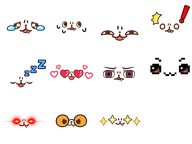
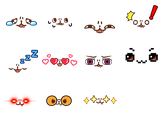
춘과게임·춘컬타일 UI 통일 및 모바일 가로모드 개선 (#185)
두 게임의 보드와 UI 크기를 통일하고 춘컬타일을 춘봉 표정+원색 타일로 변경합니다. hover 정답 노출을 없애고 모바일 landscape 진입과 orientation 동기화를 보강합니다.

diff --git a/mobile-minigames.js b/mobile-minigames.js
@@ -6,6 +6,7 @@
 
   const mobileQuery=window.matchMedia('(max-width: 760px)');
   const coarseQuery=window.matchMedia('(pointer: coarse)');
+  const landscapeQuery=window.matchMedia('(orientation: landscape)');
   const handheldAtLoad=mobileQuery.matches||coarseQuery.matches;
   const isHandheld=()=>handheldAtLoad||mobileQuery.matches||coarseQuery.matches||
     (navigator.maxTouchPoints>0&&Math.min(window.innerWidth,window.innerHeight)<=760);
@@ -31,8 +32,20 @@
   let gateResume=null;
   let gateTitle=null;
   let gateCopy=null;
+  let fullscreenOwned=false;
 
-  const isPortrait=()=>window.innerHeight>=window.innerWidth;
+  const viewportSize=()=>{
+    const visual=window.visualViewport;
+    return {width:visual?.width||window.innerWidth,height:visual?.height||window.innerHeight};
+  };
+  const isLandscape=()=>{
+    const {width,height}=viewportSize();
+    if(Math.abs(width-height)>2)return width>height;
+    if(landscapeQuery.matches)return true;
+    const orientationType=String(screen.orientation?.type||'');
+    return orientationType.startsWith('landscape');
+  };
+  const isPortrait=()=>!isLandscape();
   const landscapeApi=()=>{
     if(game==='chungwagame')return globalThis.ChungwagameApp||null;
     if(game==='chuncortile')return globalThis.ChuncortileApp||null;
@@ -67,7 +80,12 @@
     gateResume=landscapeGate.querySelector('[data-mobile-landscape-resume]');
     gateTitle=landscapeGate.querySelector('#mobile-landscape-title');
     gateCopy=landscapeGate.querySelector('[data-mobile-landscape-copy]');
-    gateResume?.addEventListener('click',()=>{
+    gateResume?.addEventListener('click',async()=>{
+      if(gateResume.dataset.action==='rotate'){
+        await requestLandscapeLock();
+        setTimeout(syncLandscapeMode,80);
+        return;
+      }
       if(isPortrait())return;
       const api=landscapeApi();
       if(!orientationPaused||!api?.resumeGame)return;
@@ -88,15 +106,21 @@
     if(mode==='resume'){
       gateTitle.textContent='게임이 일시정지되었습니다';
       gateCopy.textContent='가로 화면으로 돌아왔습니다. 준비되면 계속하기를 눌러주세요.';
+      gateResume.dataset.action='resume';
+      gateResume.textContent='계속하기';
       gateResume.hidden=false;
     }else if(mode==='paused-rotate'){
       gateTitle.textContent='세로 화면으로 전환되어 일시정지했습니다';
-      gateCopy.textContent='게임 기록은 그대로 유지됩니다. 휴대폰을 다시 가로로 돌려주세요.';
-      gateResume.hidden=true;
+      gateCopy.textContent='게임 기록은 그대로 유지됩니다. 휴대폰을 가로로 돌리거나 아래 버튼으로 다시 시도해 주세요.';
+      gateResume.dataset.action='rotate';
+      gateResume.textContent='가로모드 다시 시도';
+      gateResume.hidden=false;
     }else{
       gateTitle.textContent='휴대폰을 가로로 돌려주세요';
-      gateCopy.textContent=`${gameName}은 모바일 가로 화면에 맞춰 게임판과 조작 버튼을 크게 표시합니다.`;
-      gateResume.hidden=true;
+      gateCopy.textContent=`${gameName}은 모바일 가로 화면에 맞춰 게임판과 조작 버튼을 크게 표시합니다. 자동 회전이 되지 않으면 아래 버튼을 눌러주세요.`;
+      gateResume.dataset.action='rotate';
+      gateResume.textContent='가로모드 실행';
+      gateResume.hidden=false;
     }
     landscapeGate.hidden=false;
     body.classList.add('mobile-landscape-gate-open');
@@ -107,17 +131,26 @@
     body.classList.remove('mobile-landscape-gate-open');
   }
 
-  function requestLandscapeLock(){
+  async function requestLandscapeLock(){
+    try{
+      if(!document.fullscreenElement&&typeof document.documentElement.requestFullscreen==='function'){
+        const request=document.documentElement.requestFullscreen({navigationUI:'hide'});
+        fullscreenOwned=true;
+        await Promise.resolve(request).catch(()=>{fullscreenOwned=false;});
+      }
+    }catch(_){fullscreenOwned=false;}
     try{
       const lock=screen.orientation?.lock;
-      if(typeof lock==='function'){
-        Promise.resolve(lock.call(screen.orientation,'landscape')).catch(()=>{});
-      }
+      if(typeof lock==='function')await Promise.resolve(lock.call(screen.orientation,'landscape')).catch(()=>{});
     }catch(_){}
   }
 
   function releaseLandscapeLock(){
     try{screen.orientation?.unlock?.();}catch(_){}
+    if(fullscreenOwned&&document.fullscreenElement&&typeof document.exitFullscreen==='function'){
+      Promise.resolve(document.exitFullscreen()).catch(()=>{});
+    }
+    fullscreenOwned=false;
   }
 
   function beginLandscapeSession(){
@@ -272,7 +305,11 @@
   const resync=()=>{sync();centerChuncortile(false);};
   window.addEventListener('resize',resync,{passive:true});
   window.visualViewport?.addEventListener('resize',resync,{passive:true});
-  window.addEventListener('orientationchange',()=>setTimeout(()=>{sync();centerChuncortile(true)},120),{passive:true});
+  const orientationResync=()=>setTimeout(()=>{sync();centerChuncortile(true)},80);
+  window.addEventListener('orientationchange',orientationResync,{passive:true});
+  landscapeQuery.addEventListener?.('change',orientationResync);
+  screen.orientation?.addEventListener?.('change',orientationResync);
+  document.addEventListener('fullscreenchange',orientationResync,{passive:true});
   window.addEventListener('pagehide',()=>{if(landscapeSession)releaseLandscapeLock();},{once:true});
   sync();
 })();

diff --git a/chuncortile.js b/chuncortile.js
@@ -7,8 +7,7 @@
   const COMBO_WINDOW=2800;
   const CLEAR_PARTICLES_PER_TILE=4;
   const CLEAR_RESOLVE_MS=300;
-  const TILE_MARKS=['●','▲','◆','★','＋','✦','■','⬟','≡','♥','✿'];
-  const COLORS=['#16c931','#2377ee','#ef254f','#ffc51f','#ff6b24','#982fe8','#16c4c8','#8e531d','#969ca1','#ef4a9d','#49b856'];
+  const COLORS=['#E53935','#1E88E5','#FDD835','#43A047','#FB8C00','#8E24AA','#00ACC1','#EC407A','#90A4AE','#3949AB','#7CB342'];
 
   const e={
     game:document.getElementById('chuncortile'),board:document.getElementById('ct-board'),wrap:document.getElementById('ct-board-wrap'),
@@ -52,9 +51,9 @@
       cell.className='ct-cell '+(type===null?'is-empty':'is-tile');
       if(index===hintIndex)cell.classList.add('is-hint');
       cell.replaceChildren();
-      cell.setAttribute('aria-label',type===null?'빈 칸':`춘봉 타일 ${type+1}, ${TILE_MARKS[type]||type+1} 표식`);
+      cell.setAttribute('aria-label',type===null?'빈 칸':`춘봉 표정 타일 ${type+1}`);
       if(type!==null){
-        const tile=document.createElement('span');tile.className='ct-tile type-'+type;tile.style.setProperty('--tile-color',COLORS[type]);tile.dataset.mark=TILE_MARKS[type]||String(type+1);
+        const tile=document.createElement('span');tile.className='ct-tile type-'+type;tile.style.setProperty('--tile-color',COLORS[type]);
         const face=document.createElement('i');face.className=faceClass(type);tile.append(face);cell.append(tile);
         if(clearSet?.has(index))cell.classList.add('is-clearing');
       }
@@ -335,9 +334,8 @@
   function snapshot(){return{status:e.game.dataset.gameStatus,score,best,misses,combo,maxCombo,remainingMs,remaining:Core.remainingTiles(board),seed,board:[...board]};}
 
   buildCells();renderBoard();updateHud();void loadRanking();
-  e.board.addEventListener('pointerover',event=>{const cell=event.target.closest?.('.ct-cell');if(cell&&e.board.contains(cell))previewCell(Number(cell.dataset.index));});
-  e.board.addEventListener('pointerleave',()=>{clearPreview();if(running&&!paused)setMessage('빈 칸에 마우스를 올리면 제거될 타일을 미리 볼 수 있어요.');});
-  e.board.addEventListener('focusin',event=>{const cell=event.target.closest?.('.ct-cell');if(cell)previewCell(Number(cell.dataset.index));});
+  // Normal hover/focus no longer reveals valid moves. Preview is reserved for the Hint button.
+  e.board.addEventListener('pointerleave',()=>{clearPreview();if(running&&!paused)setMessage('빈 칸을 눌러 같은 춘봉 표정을 찾아보세요.');});
   e.board.addEventListener('focusout',event=>{if(!e.board.contains(event.relatedTarget)){clearPreview();}});
   e.start.addEventListener('click',newBoard);e.again.addEventListener('click',newBoard);e.restart.addEventListener('click',newBoard);e.pauseRestart.addEventListener('click',newBoard);
   e.pause.addEventListener('click',()=>paused?resumeGame():pauseGame(true));e.resume.addEventListener('click',resumeGame);e.hint.addEventListener('click',showHint);e.sound.addEventListener('click',toggleSound);

diff --git a/game-layout.css b/game-layout.css
@@ -216,3 +216,89 @@
   .cg-utility,.ct-tool{min-height:50px!important}
   .cg-utility small,.ct-tool small{display:none}
 }
+
+
+/* Unified Chungwagame / Chuncortile desktop footprint.
+   One shared board ratio prevents Chuncortile from becoming taller and clipping below the viewport. */
+@media(min-width:900px){
+  .chungwagame-page,.chuncortile-page{
+    --game-shell-max:1260px;
+    --game-left:150px;
+    --game-board:min(1040px,calc(170dvh - 272px),calc(100vw - 330px));
+    --game-right:100px;
+    --game-gap:10px;
+    min-height:calc(100dvh - 72px)!important;
+    overflow:visible!important
+  }
+  .chungwagame-shell,.ct-shell{
+    width:min(var(--game-shell-max),96vw)!important;
+    max-width:none!important;
+    padding:6px 0 18px!important
+  }
+  .chungwagame-navline,.ct-navline{
+    min-height:22px!important;
+    height:22px!important;
+    margin:0 0 3px!important;
+    padding:0 2px!important
+  }
+  .chungwagame-topbar,.ct-topbar{
+    min-height:52px!important;
+    margin-bottom:4px!important;
+    gap:12px!important
+  }
+  .chungwagame-layout,.ct-layout{
+    grid-template-columns:var(--game-left) minmax(0,var(--game-board)) var(--game-right)!important;
+    gap:var(--game-gap)!important;
+    justify-content:center!important;
+    align-items:start!important
+  }
+  .cg-board-card,.ct-board-card{
+    min-width:0!important;
+    padding:6px!important;
+    border-radius:18px!important
+  }
+  .cg-board-head,.ct-board-head{
+    min-height:30px!important;
+    padding:0 5px 5px!important
+  }
+  .cg-board-wrap,.ct-board-wrap{
+    width:100%!important;
+    max-width:none!important;
+    max-height:none!important;
+    aspect-ratio:17/10!important;
+    overflow:hidden!important
+  }
+  .ct-board{
+    width:100%!important;
+    height:100%!important;
+    aspect-ratio:auto!important
+  }
+  .cg-utility,.ct-tool{
+    min-height:60px!important;
+    border-radius:14px!important
+  }
+  .cg-side,.ct-side{gap:9px!important}
+  .cg-howto,.ct-panel{padding:10px!important}
+  .cg-howto h2,.ct-panel h2{font-size:14px!important;margin:5px 0 7px!important}
+  .cg-howto ol,.ct-panel ol{font-size:10px!important;line-height:1.42!important}
+  .ct-warning p{font-size:9px!important;line-height:1.45!important}
+  .cg-stat,.ct-stat{
+    min-width:78px!important;
+    padding:5px 8px!important;
+    border-radius:13px!important
+  }
+  .cg-stat strong,.ct-stat strong{font-size:17px!important}
+  .ct-stat strong b{font-size:18px!important}
+  .ct-tile{inset:5% 3%!important}
+  .ct-tile .ct-face{height:86%!important;width:auto!important;aspect-ratio:1/1!important}
+}
+@media(min-width:900px) and (max-height:700px){
+  .chungwagame-page,.chuncortile-page{
+    --game-left:140px;
+    --game-right:94px;
+    --game-gap:8px;
+    --game-board:min(900px,calc(170dvh - 250px),calc(100vw - 300px))
+  }
+  .cg-howto,.ct-howto{display:none!important}
+  .cg-utility,.ct-tool{min-height:50px!important}
+}

diff --git a/chuncortile.html b/chuncortile.html
@@ -58,7 +58,7 @@
             <span class="ct-kicker">HOW TO PLAY</span>
             <h2>게임 방법</h2>
             <ol>
-              <li><b>빈 칸</b>에 마우스를 올리면 제거될 타일을 미리 볼 수 있고, 클릭하면 지워요.</li>
+              <li><b>빈 칸</b>을 눌러 상·하·좌·우의 같은 춘봉 표정을 찾아 지워요.</li>
               <li>상·하·좌·우에서 처음 만나는 타일 중 같은 종류가 <b>2개 이상</b>이면 사라져요.</li>
               <li>타일 1개당 <b>1점</b>, 빠르게 연속 성공하면 <b>COMBO</b>!</li>
             </ol>
@@ -82,12 +82,12 @@
               <div class="ct-overlay-card">
                 <span class="ct-kicker">CHUN COLOR TILE</span>
                 <h2>같은 춘봉을 <em>쏙!</em></h2>
-                <p>빈 칸에 마우스를 올려 제거될 타일을 미리 확인하세요. 타일은 색·표정·고유 기호로 구분할 수 있어요.</p>
+                <p>원색 타일과 춘봉 표정을 빠르게 구분해 같은 타일을 찾아보세요. 정답 미리보기는 힌트 버튼에서만 제공됩니다.</p>
                 <div class="ct-preview" aria-hidden="true">
-                  <span class="ct-mini type-0" data-mark="●"><i class="ct-face ct-face-1"></i></span>
-                  <span class="ct-mini type-3" data-mark="★"><i class="ct-face ct-face-4"></i></span>
-                  <span class="ct-mini type-6" data-mark="■"><i class="ct-face ct-face-7"></i></span>
-                  <span class="ct-mini type-8" data-mark="≡"><i class="ct-face ct-face-9"></i></span>
+                  <span class="ct-mini type-0"><i class="ct-face ct-face-1"></i></span>
+                  <span class="ct-mini type-3"><i class="ct-face ct-face-4"></i></span>
+                  <span class="ct-mini type-6"><i class="ct-face ct-face-7"></i></span>
+                  <span class="ct-mini type-8"><i class="ct-face ct-face-9"></i></span>
                 </div>
                 <button id="ct-start" class="ct-primary" type="button">게임 시작</button>
                 <button class="ct-secondary" data-score-multiplayer="chuncortile" type="button">👥 멀티플레이</button>
@@ -135,7 +135,7 @@
               </div>
             </div>
           </div>
-          <p class="ct-board-note">빈 칸 호버 = 제거 미리보기 · 색 + 표정 + 기호로 타일 구분 · 빠른 연속 성공은 COMBO · 틀리면 -10초</p>
+          <p class="ct-board-note">원색 + 춘봉 표정으로 타일 구분 · 힌트 버튼에서만 가능한 칸 표시 · 빠른 연속 성공은 COMBO · 틀리면 -10초</p>
         </section>
 
         <aside class="ct-side ct-tools" aria-label="게임 도구">

diff --git a/mobile-minigames.css b/mobile-minigames.css
@@ -434,7 +434,7 @@ body.mobile-landscape-game-session .to-top{
   display:none!important
 }
 
-@media(orientation:landscape) and (max-height:600px){
+@media(orientation:landscape) and (max-height:900px){
   body.mobile-landscape-game-ready{
     width:100%!important;
     min-width:0!important;
@@ -692,4 +692,48 @@ body.mobile-landscape-game-session .to-top{
 
 @media(prefers-reduced-motion:reduce){
   .mobile-landscape-rotate span{animation:none!important}
+}
+
+
+/* Unified landscape footprint for Chungwagame + Chuncortile.
+   The session class is only applied to handheld devices, so taller phones/tablets can use it too. */
+@media(orientation:landscape) and (max-height:900px){
+  body.mobile-landscape-game-ready[data-game="chuncortile"] .ct-stat{
+    min-height:54px!important;
+    padding:7px 5px!important;
+    border-radius:11px!important
+  }
+  body.mobile-landscape-game-ready[data-game="chuncortile"] .ct-stat span{font-size:8px!important}
+  body.mobile-landscape-game-ready[data-game="chuncortile"] .ct-stat strong{font-size:16px!important}
+  body.mobile-landscape-game-ready[data-game="chuncortile"] .ct-stat strong b{font-size:18px!important}
+  body.mobile-landscape-game-ready[data-game="chuncortile"] .ct-layout{
+    grid-template-columns:minmax(0,1fr) 72px!important;
+    gap:6px!important
+  }
+  body.mobile-landscape-game-ready[data-game="chuncortile"] .ct-board-wrap{
+    width:auto!important;
+    height:min(calc(var(--mobile-landscape-height,100svh) - 42px),calc((100vw - 198px)*10/17))!important;
+    aspect-ratio:17/10!important
+  }
+  body.mobile-landscape-game-ready[data-game="chuncortile"] .ct-board{
+    width:100%!important;
+    height:100%!important;
+    aspect-ratio:auto!important
+  }
+  body.mobile-landscape-game-ready[data-game="chuncortile"] .ct-tile{
+    inset:3% 2%!important;
+    border-width:2px!important
+  }
+  body.mobile-landscape-game-ready[data-game="chuncortile"] .ct-tile .ct-face{
+    width:auto!important;
+    height:86%!important;
+    aspect-ratio:1/1!important;
+    transform:none!important;
+    filter:drop-shadow(0 1px 1px rgba(0,0,0,.48))!important
+  }
+  body.mobile-landscape-game-ready[data-game="chuncortile"] .ct-tile::after,
+  body.mobile-landscape-game-ready[data-game="chuncortile"] .ct-mini::after{
+    display:none!important;
+    content:none!important
+  }
 }

diff --git a/chuncortile.css b/chuncortile.css
@@ -302,3 +302,35 @@
 @media(prefers-reduced-motion:reduce){
   .ct-cell.is-preview-match .ct-tile{transition:none!important}
 }
+
+
+/* 2026-09-20: Chunbong face tiles + simpler primary-color language.
+   Normal hover never reveals a valid move; preview classes are reserved for Hint. */
+.ct-tile::after,.ct-mini::after{display:none!important;content:none!important}
+.ct-face{
+  background-image:url('assets/chuncortile/tiles-user.webp')!important;
+  background-size:400% 300%!important;
+  background-repeat:no-repeat!important
+}
+.type-0{--tile-edge:#FF8A80;background:linear-gradient(145deg,#EF5350,#D32F2F)!important}
+.type-1{--tile-edge:#82B1FF;background:linear-gradient(145deg,#42A5F5,#1565C0)!important}
+.type-2{--tile-edge:#FFF176;background:linear-gradient(145deg,#FFEE58,#F9A825)!important}
+.type-3{--tile-edge:#81C784;background:linear-gradient(145deg,#66BB6A,#2E7D32)!important}
+.type-4{--tile-edge:#FFB74D;background:linear-gradient(145deg,#FFA726,#EF6C00)!important}
+.type-5{--tile-edge:#CE93D8;background:linear-gradient(145deg,#AB47BC,#6A1B9A)!important}
+.type-6{--tile-edge:#80DEEA;background:linear-gradient(145deg,#26C6DA,#00838F)!important}
+.type-7{--tile-edge:#F48FB1;background:linear-gradient(145deg,#EC407A,#AD1457)!important}
+.type-8{--tile-edge:#CFD8DC;background:linear-gradient(145deg,#B0BEC5,#607D8B)!important}
+.type-9{--tile-edge:#9FA8DA;background:linear-gradient(145deg,#5C6BC0,#283593)!important}
+.type-10{--tile-edge:#C5E1A5;background:linear-gradient(145deg,#9CCC65,#558B2F)!important}
+.ct-cell.is-empty:hover{
+  background:rgba(255,255,255,.035)!important;
+  box-shadow:inset 0 0 0 1px rgba(255,255,255,.06)!important
+}
+.ct-tile .ct-face,.ct-mini .ct-face{
+  width:auto!important;
+  height:88%!important;
+  aspect-ratio:1/1;
+  transform:none!important;
+  filter:drop-shadow(0 1px 1px rgba(0,0,0,.42))!important
+}
